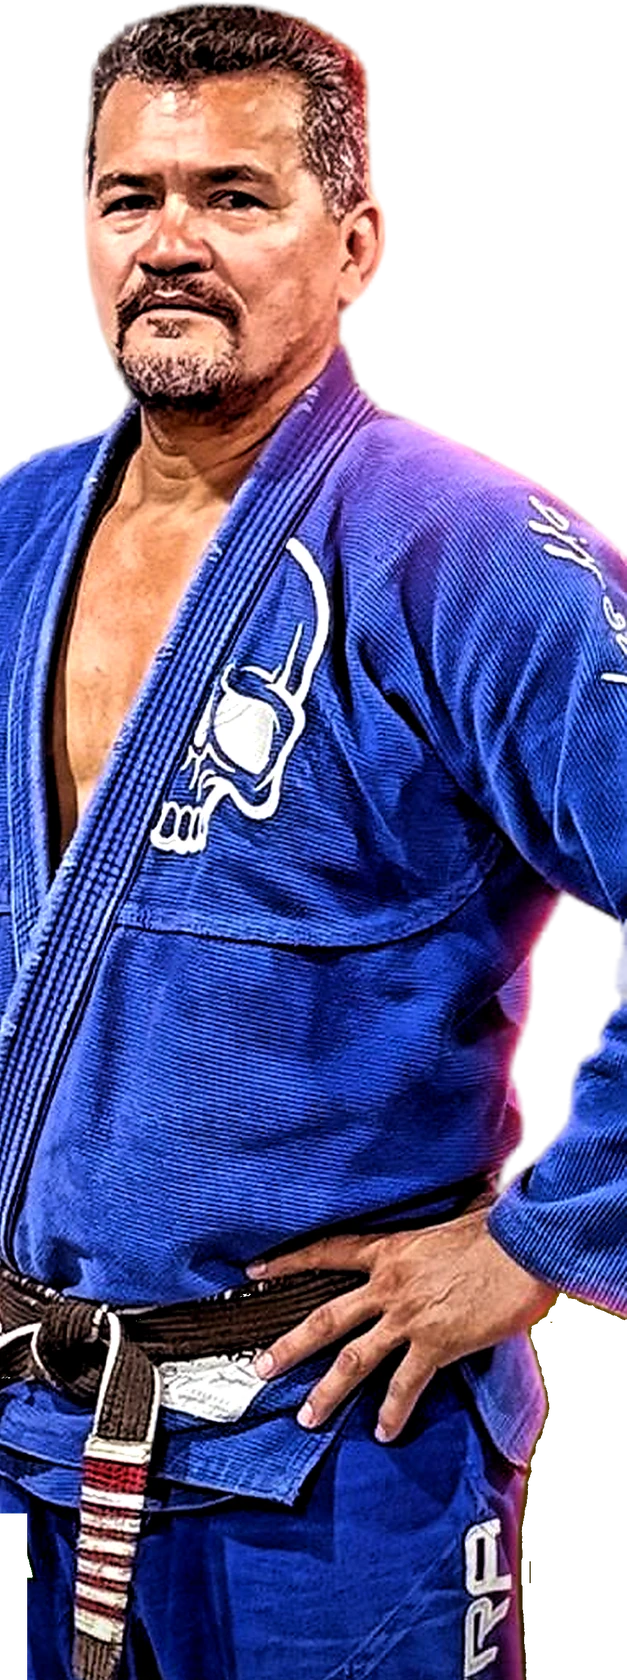
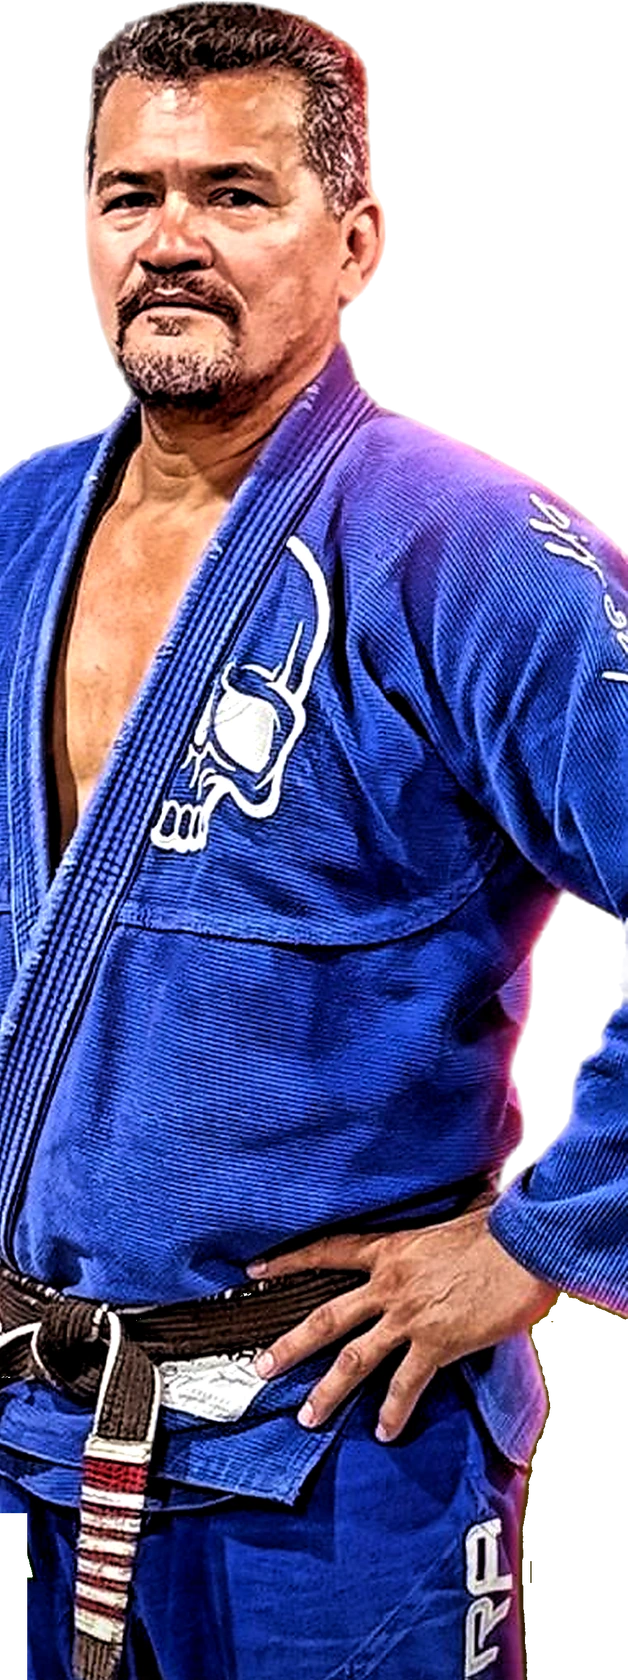
Bloco dos profissionais fica discreto e no tempo verbal certo
Matheus Camilo e Breno Yuri comecaram na RF Team mas hoje nao treinam
aqui. A secao grande deu lugar a um cartao pequeno, "Comecaram neste
tatame", com duas linhas enxutas. Sai do menu do topo e sai dos numeros
de destaque, e a descricao da pagina volta ao texto anterior.

Corrige tambem o retangulo escuro atras da foto do Mestre: era a franja
de alpha da borda sendo espalhada pelo drop-shadow. Alpha limpo, WebP
exportado com exact e alpha_quality, sombra justa no lugar da difusa.
A figura ficou cerca de 18% maior.

diff --git a/index.html b/index.html
@@ -4,7 +4,7 @@
 <meta charset="utf-8">
 <meta name="viewport" content="width=device-width, initial-scale=1">
 <title>RF Team | Academia do Mestre Rivelino em Rio Branco, Acre</title>
-<meta name="description" content="Jiu-Jitsu, Kickboxing e Karatê em Rio Branco com o Mestre Rivelino, faixa preta 5º grau e campeão mundial. A academia onde Matheus Camilo, do UFC, começou. Aula experimental gratuita na Rua Belém, 273.">
+<meta name="description" content="Jiu-Jitsu, Kickboxing e Karatê em Rio Branco sob o comando do Mestre Rivelino, faixa preta 5º grau e campeão mundial. Aula experimental gratuita na Rua Belém, 273, Nova Estação.">
 <meta name="theme-color" content="#0A0A0B">
 <link rel="canonical" href="https://academiarfteam.online/">
 <link rel="icon" href="assets/favicon.png" type="image/png">
@@ -14,7 +14,7 @@
 <meta property="og:locale" content="pt_BR">
 <meta property="og:site_name" content="Academia RF Team">
 <meta property="og:title" content="RF Team | Academia do Mestre Rivelino em Rio Branco, Acre">
-<meta property="og:description" content="A academia que levou o Acre ao pódio mundial e revelou Matheus Camilo, hoje no UFC. Jiu-Jitsu, Kickboxing e Karatê com o Mestre Rivelino. Primeira aula é gratuita.">
+<meta property="og:description" content="A academia que levou o Acre ao pódio mundial. Jiu-Jitsu, Kickboxing e Karatê com o Mestre Rivelino. Primeira aula é gratuita.">
 <meta property="og:url" content="https://academiarfteam.online/">
 <meta property="og:image" content="https://academiarfteam.online/assets/mestre-mundial-2019.webp">
 <meta property="og:image:width" content="1280">
@@ -159,8 +159,8 @@ nav a:hover::after{width:100%;}
    radial-gradient(90% 70% at 78% 92%, rgba(251,225,10,.14) 0%, transparent 58%),
    radial-gradient(70% 60% at 8% 4%, rgba(232,38,44,.10) 0%, transparent 62%),
    linear-gradient(180deg,#0A0A0B 0%,#0E0E10 52%,#08080A 100%);}
-.hero .wrap{position:relative;z-index:3;display:grid;grid-template-columns:1.14fr .86fr;gap:30px;align-items:end;
-  min-height:min(86vh,840px);padding-top:clamp(48px,6vw,72px);}
+.hero .wrap{position:relative;z-index:3;display:grid;grid-template-columns:1.2fr .8fr;gap:26px;align-items:end;
+  min-height:min(92vh,960px);padding-top:clamp(40px,5vw,60px);}
 .hero-copy{padding-bottom:clamp(52px,6vw,84px);max-width:700px;}
 .hero h1{font-size:clamp(40px,6vw,84px);line-height:.96;}
 .hero h1 span{display:block;}
@@ -172,18 +172,18 @@ nav a:hover::after{width:100%;}
   border-radius:999px;background:rgba(251,225,10,.045);font-size:11.5px;font-weight:800;letter-spacing:.09em;text-transform:uppercase;color:#E9E4C4;}
 .seal i{width:6px;height:6px;border-radius:50%;background:var(--yellow);flex:none;box-shadow:0 0 12px var(--yellow);}
 
-.hero-figure{position:relative;align-self:end;justify-self:center;width:100%;max-width:560px;}
+.hero-figure{position:relative;align-self:end;justify-self:center;width:100%;max-width:640px;}
 /* a figura do Mestre aparece inteira, sem corte e sem esmaecimento */
-.hero-figure img{width:auto;max-width:100%;height:auto;max-height:min(74vh,760px);
+.hero-figure img{width:auto;max-width:100%;height:auto;max-height:min(90vh,940px);
   margin-inline:auto;display:block;position:relative;z-index:2;
-  filter:drop-shadow(0 26px 44px rgba(0,0,0,.7)) drop-shadow(0 0 1px rgba(0,0,0,.5));}
+  filter:drop-shadow(0 12px 18px rgba(0,0,0,.5));}
 /* sombra de contato no chão, para ele não flutuar */
 .hero-figure::after{content:"";position:absolute;z-index:1;left:50%;bottom:-6px;transform:translateX(-50%);
   width:76%;height:26px;border-radius:50%;
   background:radial-gradient(ellipse,rgba(0,0,0,.75) 0%,rgba(0,0,0,.35) 45%,transparent 72%);}
-.hero-figure::before{content:"";position:absolute;z-index:1;left:50%;bottom:0;transform:translateX(-50%);
-  width:118%;aspect-ratio:1;border-radius:50%;
-  background:radial-gradient(circle,rgba(251,225,10,.24) 0%,rgba(251,225,10,.06) 42%,transparent 68%);}
+.hero-figure::before{content:"";position:absolute;z-index:1;left:50%;bottom:-4%;transform:translateX(-50%);
+  width:128%;aspect-ratio:1;border-radius:50%;
+  background:radial-gradient(circle,rgba(251,225,10,.30) 0%,rgba(251,225,10,.10) 40%,transparent 66%);}
 .hero-figure figcaption{position:absolute;z-index:3;right:0;bottom:8px;text-align:right;
   font-size:10.5px;font-weight:800;letter-spacing:.18em;text-transform:uppercase;color:var(--muted);
   padding:10px 16px;border-radius:12px;
@@ -497,44 +497,24 @@ footer p{font-size:14px;color:var(--muted);max-width:44ch;}
   font-size:11px;font-weight:800;letter-spacing:.1em;text-transform:uppercase;color:#D8D8DE;}
 .strip figcaption span{display:block;color:var(--yellow);font-size:10px;margin-top:3px;letter-spacing:.12em;}
 
-/* ---------------- atletas profissionais ---------------- */
-.pros{background:
-  radial-gradient(75% 55% at 50% 0%,rgba(232,38,44,.10),transparent 60%),
-  linear-gradient(180deg,#0A0A0B,#0F0F12);border-block:1px solid var(--line-soft);}
-.pro-lead{position:relative;border-radius:var(--r);overflow:hidden;border:1px solid var(--line);
-  box-shadow:var(--shadow-lg);margin-bottom:26px;}
-.pro-lead img{width:100%;height:auto;aspect-ratio:16/9;object-fit:cover;}
-.pro-lead figcaption{position:absolute;inset:auto 0 0;padding:clamp(48px,8vw,90px) clamp(18px,3vw,30px) clamp(16px,2.4vw,26px);
-  background:linear-gradient(transparent,rgba(5,5,7,.93));}
-.pro-lead figcaption b{display:block;font-family:Anton,sans-serif;font-weight:400;font-size:clamp(17px,2.3vw,26px);
-  text-transform:uppercase;letter-spacing:.02em;margin-bottom:5px;}
-.pro-lead figcaption span{font-size:13px;color:var(--muted);}
-
-.pro-grid{display:grid;grid-template-columns:repeat(2,1fr);gap:20px;}
-@media(max-width:860px){.pro-grid{grid-template-columns:1fr;}}
-.pro{position:relative;display:grid;grid-template-columns:200px 1fr;gap:0;
-  border:1px solid var(--line-soft);border-radius:var(--r);overflow:hidden;background:var(--panel-2);
-  transition:border-color .35s,transform .35s var(--ease),background .35s;}
-.pro:hover{border-color:var(--yellow);transform:translateY(-5px);background:var(--panel-3);}
-@media(max-width:520px){.pro{grid-template-columns:1fr;}}
-.pro .shot{position:relative;overflow:hidden;min-height:260px;}
-.pro .shot img{position:absolute;inset:0;width:100%;height:100%;object-fit:cover;transition:transform .8s var(--ease);}
-.pro:hover .shot img{transform:scale(1.06);}
-@media(max-width:520px){.pro .shot{min-height:0;aspect-ratio:4/3;} .pro .shot img{position:static;}}
-.pro .shot::after{content:"";position:absolute;inset:0;background:linear-gradient(100deg,transparent 45%,rgba(23,23,26,.9) 100%);}
-@media(max-width:520px){.pro .shot::after{background:linear-gradient(transparent 50%,rgba(23,23,26,.92));}}
-.pro .txt{padding:24px 24px 26px;}
-.pro .org{display:inline-flex;align-items:center;gap:7px;font-family:Anton,sans-serif;font-weight:400;
-  font-size:13px;letter-spacing:.16em;padding:5px 12px;border-radius:7px;margin-bottom:12px;}
-.org-ufc{background:var(--red);color:#fff;}
-.org-lfa{background:var(--yellow);color:#0A0A0B;}
-.pro h3{font-size:clamp(22px,2.6vw,29px);margin-bottom:4px;}
-.pro .nick{font-size:12px;font-weight:800;letter-spacing:.16em;text-transform:uppercase;color:var(--yellow);margin-bottom:14px;}
-.pro p{font-size:14.5px;color:var(--muted);line-height:1.62;}
-.pro .rec{display:flex;gap:8px;flex-wrap:wrap;margin-top:18px;padding-top:16px;border-top:1px dashed rgba(255,255,255,.1);}
-.pro .rec b{font-size:11px;font-weight:800;letter-spacing:.07em;text-transform:uppercase;padding:6px 11px;border-radius:7px;
-  background:rgba(251,225,10,.1);color:var(--yellow);border:1px solid rgba(251,225,10,.17);}
-.pros-note{margin-top:26px;font-size:12.5px;color:var(--muted-2);text-align:center;}
+/* ---------------- começaram aqui (discreto) ---------------- */
+.origem{background:var(--ink);padding-block:clamp(34px,4.5vw,54px);}
+.origem-box{border:1px solid var(--line-soft);border-radius:var(--r);background:rgba(255,255,255,.022);
+  padding:clamp(22px,3vw,30px);display:grid;grid-template-columns:.85fr 1.15fr;gap:clamp(22px,3.5vw,44px);align-items:center;}
+@media(max-width:860px){.origem-box{grid-template-columns:1fr;gap:22px;}}
+.origem-head p{font-size:14px;color:var(--muted);line-height:1.6;max-width:42ch;}
+.origem-head .eyebrow{margin-bottom:12px;}
+.origem-list{list-style:none;margin:0;padding:0;display:grid;gap:16px;}
+.origem-list li{display:grid;grid-template-columns:56px 1fr;gap:15px;align-items:center;}
+.origem-list img{width:56px;height:56px;border-radius:12px;object-fit:cover;
+  border:1px solid var(--line-soft);filter:grayscale(.45);transition:filter .35s;}
+.origem-list li:hover img{filter:grayscale(0);}
+.origem-list b{display:block;font-size:14.5px;font-weight:800;color:var(--bone);margin-bottom:4px;}
+.origem-list span{font-size:13px;color:var(--muted);line-height:1.5;}
+.tagline{display:inline-block;font-family:Anton,sans-serif;font-weight:400;font-size:10.5px;letter-spacing:.14em;
+  padding:2px 7px;border-radius:5px;margin-left:6px;vertical-align:1px;}
+.tag-ufc{background:rgba(232,38,44,.16);color:#F2777B;border:1px solid rgba(232,38,44,.3);}
+.tag-lfa{background:rgba(251,225,10,.13);color:var(--yellow);border:1px solid rgba(251,225,10,.26);}
 
 /* ---------------- faq com fundo ---------------- */
 .faq{position:relative;overflow:hidden;}
@@ -602,8 +582,8 @@ footer p{font-size:14px;color:var(--muted);max-width:44ch;}
       <a href="#modalidades">Modalidades</a>
       <a href="#mestre">O Mestre</a>
       <a href="#medalhistas">Medalhistas</a>
-      <a href="#profissionais">UFC e LFA</a>
       <a href="#horarios">Horários</a>
+      <a href="#projeto">Projeto Social</a>
       <a href="#local">Onde Treinar</a>
     </nav>
     <a class="btn btn-primary nav-cta" href="https://wa.me/5568999840074?text=Ol%C3%A1%21%20Quero%20agendar%20minha%20aula%20experimental%20gratuita%20na%20RF%20Team." target="_blank" rel="noopener">Aula grátis</a>
@@ -618,7 +598,6 @@ footer p{font-size:14px;color:var(--muted);max-width:44ch;}
     <a href="#modalidades">Modalidades</a>
     <a href="#mestre">O Mestre</a>
     <a href="#medalhistas">Medalhistas</a>
-    <a href="#profissionais">UFC e LFA</a>
     <a href="#horarios">Horários</a>
     <a href="#projeto">Projeto Social</a>
     <a href="#local">Onde Treinar</a>
@@ -660,7 +639,7 @@ footer p{font-size:14px;color:var(--muted);max-width:44ch;}
     </div>
 
     <figure class="hero-figure">
-      <img src="assets/mestre-rivelino.webp" alt="Mestre Rivelino Souza de kimono azul e faixa preta" width="627" height="1680" fetchpriority="high">
+      <img src="assets/mestre-rivelino.webp" alt="Mestre Rivelino Souza de kimono azul e faixa preta" width="628" height="1680" fetchpriority="high">
       <figcaption>Mestre<b>Rivelino Souza</b>Faixa preta 5º grau</figcaption>
     </figure>
   </div>
@@ -682,7 +661,7 @@ footer p{font-size:14px;color:var(--muted);max-width:44ch;}
 <section class="stats">
   <div class="stats-grid">
     <div class="stat"><b data-count="2000">2000</b><span>Ano de fundação da academia</span></div>
-    <div class="stat"><b data-count="2">2</b><span>Atletas profissionais no UFC e no LFA</span></div>
+    <div class="stat"><b data-count="5">5</b><span>Grau da faixa preta do Mestre</span></div>
     <div class="stat"><b data-count="2">2</b><span>Campeões mundiais formados na equipe</span></div>
     <div class="stat"><b data-count="200" data-suffix="+">200+</b><span>Jovens atendidos de graça no projeto social</span></div>
   </div>
@@ -811,7 +790,7 @@ footer p{font-size:14px;color:var(--muted);max-width:44ch;}
         <ul class="tl">
           <li><b>1995</b><span>Começa a ensinar jiu-jitsu a jovens lutadores em Rio Branco.</span></li>
           <li><b>2000</b><span>Funda a academia, que se tornaria a RF Team, na Rua Belém, em Nova Estação.</span></li>
-          <li><b>2013 a 2017</b><span>Treina jiu-jitsu e kickboxing com um garoto da Baixada da Sobral chamado Matheus Camilo, hoje no UFC.</span></li>
+          <li><b>2013 a 2017</b><span>Dá os primeiros treinos de jiu-jitsu e kickboxing a Matheus Camilo, garoto da Baixada da Sobral que anos depois chegaria ao UFC.</span></li>
           <li><b>2015</b><span>Traz Ronaldo “Jacaré” Souza, então número 2 do peso-médio do UFC, para um seminário em Rio Branco.</span></li>
           <li><b>2016</b><span>Prata no Campeonato Mundial de Jiu-Jitsu Esportivo, categoria master 3, no Ibirapuera.</span></li>
           <li><b>2019</b><span>Campeão Mundial da CBJJE na master 4, peso médio faixa preta, com vitórias por finalização.</span></li>
@@ -988,62 +967,32 @@ footer p{font-size:14px;color:var(--muted);max-width:44ch;}
   <div class="wrap"><p class="medals-note">Conquistas apuradas em reportagens do ge Globo, ContilNet, ac24horas, A Gazeta do Acre e Notícias da Hora, e em resultados publicados por CBJJE, IBJJF, AJP e Copa Pódio.</p></div>
 </section>
 
-<!-- ============ atletas profissionais ============ -->
-<section class="sec pros" id="profissionais">
+<!-- ============ começaram aqui (bloco discreto) ============ -->
+<section class="origem" id="origem">
   <div class="wrap">
-    <div class="sec-head reveal">
-      <div>
-        <p class="eyebrow">Do tatame da Rua Belém para o mundo</p>
-        <h2>Daqui saiu gente<br>que luta no UFC</h2>
+    <div class="origem-box reveal">
+      <div class="origem-head">
+        <p class="eyebrow">Começaram neste tatame</p>
+        <p>Dois acreanos deram os primeiros passos nas artes marciais aqui e hoje seguem
+           carreira profissional no MMA, fora do estado.</p>
       </div>
-      <p class="lead">Dois profissionais em atividade carregam o nome do Acre nos maiores eventos de MMA do planeta. Os dois começaram cedo, num tatame de bairro em Rio Branco.</p>
+      <ul class="origem-list">
+        <li>
+          <img src="assets/matheus-camilo.webp" alt="Matheus Camilo" width="560" height="747" loading="lazy">
+          <div>
+            <b>Matheus Camilo <span class="tagline tag-ufc">UFC</span></b>
+            <span>Treinou jiu-jitsu e kickboxing na academia entre 2013 e 2017. Hoje mora nos Estados Unidos e luta no peso-leve.</span>
+          </div>
+        </li>
+        <li>
+          <img src="assets/breno-yuri.webp" alt="Breno Yuri" width="560" height="747" loading="lazy">
+          <div>
+            <b>Breno Yuri <span class="tagline tag-lfa">LFA</span></b>
+            <span>Também começou aqui. Estreou no MMA profissional em 2023 e hoje disputa o peso-galo no Legacy Fighting Alliance.</span>
+          </div>
+        </li>
+      </ul>
     </div>
-
-    <figure class="pro-lead reveal">
-      <img src="assets/matheus-mestre.webp" alt="Mestre Rivelino Souza abraça Matheus Camilo na academia em Rio Branco, após o acreano assinar com o UFC" width="1280" height="800" loading="lazy">
-      <figcaption>
-        <b>“Ele tem muita vontade. Quando você quer, tem que correr atrás, não pode desistir.”</b>
-        <span>Mestre Rivelino sobre Matheus Camilo, que voltou à academia depois de assinar com o UFC e deu um kimono novo de presente ao professor</span>
-      </figcaption>
-    </figure>
-
-    <div class="pro-grid stagger">
-      <article class="pro">
-        <div class="shot">
-          <img src="assets/matheus-camilo.webp" alt="Matheus Camilo, o Jaguar, lutador acreano do UFC" width="560" height="747" loading="lazy">
-        </div>
-        <div class="txt">
-          <span class="org org-ufc">UFC</span>
-          <h3>Matheus Camilo</h3>
-          <p class="nick">“Jaguar” &middot; Peso-leve</p>
-          <p>
-            Criado na Baixada da Sobral, treinou jiu-jitsu e kickboxing aqui entre 2013 e 2017, sob o
-            comando do Mestre Rivelino. Virou o segundo acreano da história a chegar ao UFC, depois de
-            uma vitória que arrancou elogios do próprio Dana White.
-          </p>
-          <div class="rec"><b>Cartel 11-3</b><b>2 vitórias no UFC</b><b>5 nocautes</b></div>
-        </div>
-      </article>
-
-      <article class="pro">
-        <div class="shot">
-          <img src="assets/breno-yuri.webp" alt="Breno Yuri, lutador acreano de MMA do LFA" width="560" height="747" loading="lazy">
-        </div>
-        <div class="txt">
-          <span class="org org-lfa">LFA</span>
-          <h3>Breno Yuri</h3>
-          <p class="nick">Peso-galo &middot; Legacy Fighting Alliance</p>
-          <p>
-            Estreou no MMA profissional em 2023 e emendou quatro vitórias seguidas, duas delas no LFA,
-            a liga que mais abastece o UFC. No começo de 2026 finalizou Lucas Andrade com um triângulo
-            em Brasília. O alvo declarado é o mesmo octógono.
-          </p>
-          <div class="rec"><b>Cartel 6-2</b><b>3 lutas no LFA</b><b>Finalização e nocaute</b></div>
-        </div>
-      </article>
-    </div>
-
-    <p class="pros-note">Cartéis e resultados conferidos em reportagens do ge Globo, UOL e Ag Fight, e nas fichas oficiais do UFC e do LFA.</p>
   </div>
 </section>
 
@@ -1281,7 +1230,7 @@ footer p{font-size:14px;color:var(--muted);max-width:44ch;}
         <ul>
           <li><a href="#mestre">Mestre Rivelino</a></li>
           <li><a href="#medalhistas">Medalhistas</a></li>
-          <li><a href="#profissionais">Atletas profissionais</a></li>
+          <li><a href="#origem">Começaram aqui</a></li>
           <li><a href="#horarios">Horários</a></li>
           <li><a href="#projeto">Combate pelo Bem</a></li>
           <li><a href="#local">Como chegar</a></li>

diff --git a/LEIA-ME.md b/LEIA-ME.md
@@ -35,7 +35,9 @@ O brasão em `assets/logo.webp` foi extraído do card de horários, teve o fundo
 
 Todas as fotos passaram pelo mesmo processo: contraste local, nitidez por máscara de desfoque e ganho de saturação e brilho. **Nenhum conteúdo foi alterado, adicionado ou removido de nenhuma foto.**
 
-A foto do Mestre Rivelino no topo foi recortada do fundo do card original por segmentação (modelo `isnet-general-use`), teve o vazamento de fundo entre o braço e o tronco removido por cor, e ganha um esmaecimento na base para não terminar num corte reto.
+A foto do Mestre Rivelino no topo foi recortada do fundo do card original por segmentação (modelo `isnet-general-use`) e teve o vazamento de fundo entre o braço e o tronco removido por cor. Ela aparece inteira, sem esmaecimento e sem corte.
+
+Uma franja de alpha fraco sobrava na borda do recorte e o `drop-shadow` do CSS a espalhava, formando um retângulo escuro atrás dele. Corrigido zerando o alpha abaixo de 42, limpando o RGB sob as áreas transparentes, exportando o WebP com `exact=True` e `alpha_quality=100`, e trocando a sombra larga por uma justa.
 
 ---
 
@@ -85,7 +87,7 @@ Cinco pontos que não consegui verificar em fonte pública e que escrevi da form
 3. **Idade mínima do Jiu Kids.** O site cita os 7 anos apenas para o projeto social, que é o dado publicado. A turma kids da academia ficou sem idade declarada de propósito.
 4. **Mensalidade.** O FAQ manda para o WhatsApp em vez de citar valor, já que não tenho a tabela.
 5. **Uso das fotos dos atletas.** Vale um aviso aos retratados, e o ideal é substituir pelos originais da academia, que terão mais resolução que as versões publicadas pela imprensa.
-6. **Vínculo do Breno Yuri com a academia.** A imprensa sempre o trata só como "lutador acreano" e não achei fonte pública que cite a equipe dele. O bloco no site foi escrito com os dados de cartel e de LFA, que são verificáveis, sem afirmar em que academia ele treina. Se ele for atleta da casa, dá para deixar isso explícito; se não for, o bloco sai em um minuto.
+6. **Matheus Camilo e Breno Yuri começaram aqui, mas hoje não treinam na RF Team.** O bloco "Começaram neste tatame" foi escrito nesse tempo verbal de propósito, e de forma discreta: um cartão pequeno, sem manchete, fora do menu do topo e fora dos números de destaque. O vínculo do Matheus com a academia entre 2013 e 2017 está documentado pelo ge Globo; o do Breno veio da própria academia, porque a imprensa só o trata como "lutador acreano".
 7. **Foto do Mestre no topo.** O único arquivo disponível é o card de horários, e nele o texto foi impresso por cima do corpo dele, no lado esquerdo. Essa faixa danificada teve de ser descartada no recorte. Com a foto original, sem a arte do card, o recorte fica perfeito de ponta a ponta.
 
 ---
